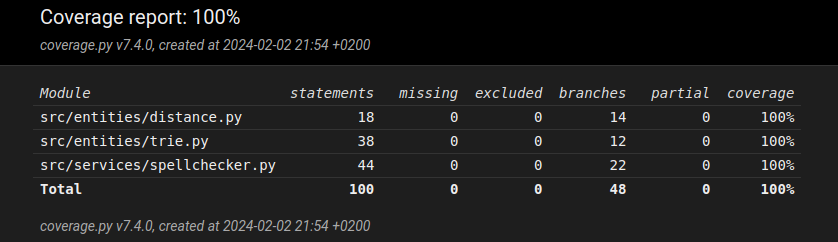
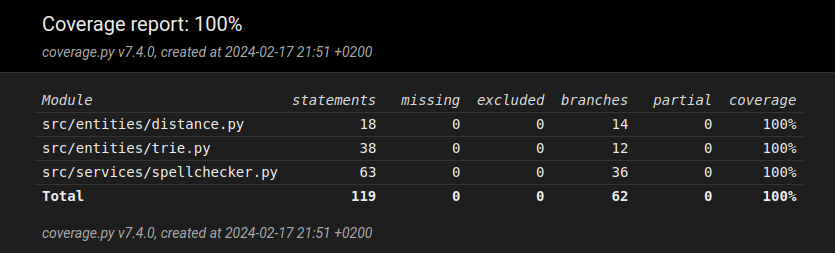
update spellchecker

diff --git a/src/services/spellchecker.py b/src/services/spellchecker.py
@@ -1,5 +1,4 @@
 import re
-import time
 from entities.trie import Trie
 from entities.distance import Distance
 
@@ -25,10 +24,7 @@ class SpellChecker:
             clean_word = self.trie.cleaner(word)
             if len(clean_word) > 1 and ord("z") >= ord(clean_word[0]) >= ord("a"):
                 correct_words = self.get_correct_word(clean_word)
-                if correct_words is None:
-                    suggestions.append((False, word))
-                else:
-                    suggestions.append(correct_words)
+                suggestions.append(correct_words)
             else:
                 suggestions.append(word)
         return suggestions
@@ -39,77 +35,39 @@ class SpellChecker:
         result = ""
         for element in clean_paragraph:
             if isinstance(element, tuple):
-                if element[0] is False:
-                    result += f"{element[1]}(unknown word)"
-                else:
-                    result += f"--{element[0][0]}--"
+                result += f"--{element[0][0]}--"
             else:
                 result += element
         return result
-    # def print_words(self, prev_key=""):
-    #     for letter in self.children:
-    #         if letter is None:
-    #             continue
-    #         new_key = prev_key + letter.value
-    #         if letter.is_terminal:
-    #             print(f"{new_key}: {letter}")
-
-    #         # else:
-    #         #     print(f"{prev_letters}-{i}") #i.value
-    #         letter.print_words(new_key)
-
-    # def get_correct_word_orginal(self, word):
-    #     '''Palauttaa oikeaan kirjoitetun sanan tai ehdotuksen.'''
-    #     if self.trie.search(word):
-    #         return word
-    #     return self._get_suggestion(self.trie.node, word)
 
     def get_correct_word(self, word):
         '''Palauttaa oikeaan kirjoitetun sanan tai ehdotuksen.'''
-        #alku = time.time()
         if self.trie_full.search(word):
-            # loppu = time.time()
-            # print(f"{loppu-alku}, löyty-{word}")
             return word
         # Lisää 1.kirjaimen ja katsoo löytyykö sanakirjasta oikeaa sanaa
         for i in range(ord("a"), ord("z")):
-            if self.trie_full.search(chr(i)+word):
-                # loppu = time.time()
-                # print(f"{loppu-alku}, lisää alku-{word}")
-                return ([chr(i)+word], 0.5)
+            proposed_word = chr(i)+word
+            if self.trie_full.search(proposed_word):
+                return ([proposed_word], 0.5)
         # Lisää viimeisen kirjaimen
-        for i in range(ord("a"), ord("z")):
-            if self.trie_full.search(word+chr(i)):
-                # loppu = time.time()
-                # print(f"{loppu-alku}, lisää loppu-{word}")
-                return ([word+chr(i)], 0.5)
+            proposed_word = word+chr(i)
+            if self.trie_full.search(proposed_word):
+                return ([proposed_word], 0.5)
         # Ottaa pois 1.kirjaimen
         if self.trie_full.search(word[1:]):
-            # loppu = time.time()
-            # print(f"{loppu-alku}, eka kirjain-{word}")
             return ([word[1:]], 0.5)
         # Ottaa pois viimeisen kirjaimen
         if self.trie_full.search(word[:-1]):
-            # loppu = time.time()
-            # print(f"{loppu-alku}, vika kirjain-{word}")
             return ([word[:-1]], 0.5)
-        # start = word[0]
-        # end = word[1:]
         result = self._get_suggestion(self.trie.node, word)
-        if result[1] == 1:
-            # loppu = time.time()
-            # print(f"{loppu-alku}, pieni-{word}")
-            return result
-        result = self._get_suggestion(self.trie_full.node, word)
-        # loppu = time.time()
-        # print(f"{loppu-alku}, loppu-{word}")
+        # Jos distance ei ole 1 eli hyvä, niin jatketaan etsimistä isosta sanakirjasta
+        if result[1] != 1:
+            result = self._get_suggestion(self.trie_full.node, word)
         return result
 
     def _get_suggestion(self, node, word, min_distance=100,  prev_key=None, found_word=None):
         '''Palauttaa väärinkirjoitetulle sanalle ehdotuksen ja käy läpi trie puurakennetta 
         ja käyttää etäisyys algoritmiä.'''
-        # if node is None:
-        #     return None
         for letter in node.children:
             if letter is None:
                 continue
@@ -133,11 +91,3 @@ class SpellChecker:
             (found_word, min_distance) = self._get_suggestion(
                 letter, word, min_distance, new_key, found_word)
         return (found_word, min_distance)
-
-    # def helper(self, word):
-    #     alku = ""
-    #     for i in range(len(word)):
-    #         print(f"{alku+word [i]}-{self.get_correct_word(alku+word[i])}")
-    #         alku +=  word[i]
-
-    #     return True

diff --git a/src/tests/trie_test.py b/src/tests/trie_test.py
@@ -6,36 +6,40 @@ class Testtrie(unittest.TestCase):
     def test_insert_words_into_trie(self):
         trie = Trie()
         trie.insert("apartment")
-        print(trie)
         word = trie.search("apartment")
-        self.assertEqual(word, True)
+        self.assertEqual(word, True)  # sana löytyi
 
         trie.insert("apple")
         word = trie.search("apple")
-        self.assertEqual(word, True)
+        self.assertEqual(word, True)  # eri sana löytyi
 
         trie.insert("")
         word = trie.search("apartmen")
-        self.assertEqual(word, False)
+        self.assertEqual(word, False)  # väärin kirjoitettu sana ei löytynyt
 
-        trie.insert("BIG")
+        trie.insert("BIG")  # pystyy lisää isoilla kirjaimilla olevan sanan
         word = trie.search("big")
-        self.assertEqual(word, True)
+        self.assertEqual(word, True)  # sana on löytyy
 
         word = trie.search("apartmente")
-        self.assertEqual(word, False)
+        self.assertEqual(word, False)  # väärin kirjoitettu sana ei löytynyt
 
+        # isoilla kirjaimilla kirjoitettu sana on löytynyt
         word = trie.search("APARTment")
         self.assertEqual(word, True)
 
-    def test_save_dictonary_to_trie(self):
+        word = trie.search("!")
+        self.assertEqual(word, True)  # ei ole kirjoitusvirhettä merkillä
+
+    def test_save_dictonary_file_to_trie(self):
         trie = Trie()
         trie.save_dictonary_to_trie("src/data/test_wordslist.txt")
-        found = trie.search("apartment")
+        found = trie.search("apartment")  # löytyi sanakirjasta
         self.assertEqual(found, True)
 
+        # löytyy sanakirjasta, vaikka on kirjoitettu osan isolla kirjailla
         found = trie.search("APart")
         self.assertEqual(found, True)
 
-        found = trie.search("ap")
+        found = trie.search("ap")  # ei löytynyt sanaa
         self.assertEqual(found, False)

diff --git a/src/index.py b/src/index.py
@@ -1,30 +1,12 @@
-import time
 from services.spellchecker import SpellChecker
 
 
 def main():
-    #alku = time.time()
     spell_checker = SpellChecker(
         "src/data/3000_words.txt", "src/data/words_alpha.txt")
-    # loppu = time.time()
-    # print(loppu-alku)
-    # print(spell_checker.get_correct_word("apend"))
-    user_input = input("Enter a text paragraph: ")#"apartment...2 apar jjj!banana dont bage\n!"
-    # print("alku----")
-#     user_input = '''Hello,
-# My name is Susan. I'm forteen and I life in Germany. My hobbys are go to discos,
-#    sometimes I hear music in the radio.
-# In the summer I go bathing in a lake. I haven't any brothers or sisters. We take busses to scool.
-# I visit year 9 at my school. My birthday is on Friday. I hope I will become a new guitar.
-# I'm looking forward to get a e-mail from you.
-
-# Yours,
-#
-    #user_input = "apartment...2 apar jjj!banana dont\n!"
+    user_input = input("Enter a text paragraph: ")
     clean_text = spell_checker.fix_text(user_input)
     print(clean_text)
-    # print(spell_checker.helper("hepetihop"))
-    # 'abend', 'agend', 'amend', 'anend', 'aped', 'append', 'arend', 'pend', 'spend', 'upend'
 
 
 if __name__ == "__main__":

diff --git a/src/tests/spellchecker_test.py b/src/tests/spellchecker_test.py
@@ -44,4 +44,4 @@ class TestSpellchecker(unittest.TestCase):
         text = spellchecker.fix_text(
             "hello, what, where are you?")
         self.assertEqual(
-            text, "hello, what, where --care-- you?")  # sanakirjassa ei ole are sanaa
+            text, "hello, what, where --area-- you?")  # sanakirjassa ei ole are sanaa

diff --git a/documents/toteutusdokumentti.md b/documents/toteutusdokumentti.md
@@ -1,4 +1,5 @@
 # Toteutusdokumetti
+Ohjelma ottaa vastaan teksipätkän ja tarkistaa sanojen oikean englannin kirjotuksen. Sanat ovat kirjoitettu a-z kirjamilla (voi olla isoja kirjaimia, mutta palauttaa vain pieniä kirjaimia), muita merkkejä ja numeroita ei tarkisteta vaan ne hyväksytään sellaisenaan. Käyttäjä voi halutessa vaihtaa oman sanaston vaihtomalla file_path. 
 
 ## Ohjelman rakenne
 Ohjelma koostuu [distance](/src/entities/distance.py) algoritmi luokasta (vertaa kahta sanaa ja kertoo niiden eron etäisyytenä), [trie](/src/entities/trie.py) puimaisesta tietorakenne luokasta (säilyttää sanakirjan) ja luokasta [spellchecker](/src/services/spellchecker.py) (etsii väärinkirjoitetulle sanalle läheisimään ehdotuksen), joka käyttää näitä funktioita distance ja trie luokasta. Käyttäjä pääsee indexin avulla spellchecker luokkaan käyttämään tarvittavia funktiota, jotka korjaa tekstin sanakirjoitusvirheet. 
@@ -11,10 +12,10 @@ Algorimin aikavaativuus pitäisi pahminmassa tapauksessa olla O(mn), missä m on
 Ohjelmassa, jos löytyy sana, niin nopeus on n*10^⁻6 s, missä n on keskimäärin 5 eli siihen vaikuttaa sanan pituus ja sanalistan pituus.
 
 ## Puutteet ja parannusehdot
-Puutteena on, että ohjelma on jossain tapauksissa hidas ja ohjelma ei palauta parasta vaihtoehtoa vääriinkirjoitetulle sanalle käyttäjän kannalta vaan palauttaa sanan mikä on lähin etäisyys, koska käytetään distance algoritmia. Esim. sanalle voi löytyä monta vaihtoehtoa ja parannusehtona olisi, että käyttäjä saisi kaikki vaihtoedot ja voisi itse valita sopivan sanan. Tai ohjelmassa voisi lisätä sellaisen arpomisfunktio eli osaisi arvata, minkä oikean sanan käyttäjä haluisi.
+Puutteena on, että ohjelma on jossain tapauksissa hidas ja ohjelma ei palauta parasta vaihtoehtoa vääriinkirjoitetulle sanalle käyttäjän kannalta vaan palauttaa sanan mikä on lähin etäisyys, koska käytetään distance algoritmia. Esim. sanalle voi löytyä monta vaihtoehtoa ja parannusehtona olisi, että käyttäjä saisi kaikki vaihtoedot ja voisi itse valita sopivan sanan. Tai ohjelmassa voisi lisätä sellaisen arpomisfunktio eli osaisi arvata, minkä oikean sanan käyttäjä haluisi. Parannusehtona olisi, että ohjelma voisi muistaa käyttäjän tekemät yleiset virheet ja siitä syntyisi oma sanakirja.
 Toisena parannusehtona olisi, että sanat olisivat samalla tyylillä, mitten käyttäjä on lisännyt sinne, tällä hetkellä ohjelma muuttaa kaikki sanat pieneksi kirjaimiseksi.
 Trien luominen kestää tässä ohjelmassa, koska sanasto on iso, mutta sitä voisi ehkä yrittää optimoida. Algotimiä voisi optimoida siten, että käyttäsi jotain map-työkalua ja laittaisi esim. lähellä olevat kirjaimet näppäimistössä tallenteen ja käyttäsi sitä hyödyksi. 
-Voisi käyttää jotain toista algoritmia apuna ohjelman nopeuttamiselle.
+Voisi käyttää jotain toista algoritmia apuna ohjelman nopeuttamiselle. Ohjelma voisi toimi myös muilla kielillä, mutta ohjelman toimintoja pitäisi muuttaa. Esim. suomenkielellä on haastavampi tehdä taivutusten takia.
 
 ## Lähteet
 Trie tietorakenteen lähde: https://en.wikipedia.org/wiki/Trie

diff --git a/documents/viikkoraportit/raportti5.md b/documents/viikkoraportit/raportti5.md
@@ -1,9 +1,9 @@
-Tällä viikolla aloin optimoimaan ohjelmaa. Lisäsin uuden sanakirjan käyttöön, missä on 3000 yleistä englannin sanaa. Tällä tavalla se vähän nopeuttaa ohjelmaa siten, että jos ei löydä sanaa sanakirjasta, niin tekee haun ekana siitä yleisen sanojen sanakirjasta ja sitten vasta siitä isosta sanakirjasta. Tehty myös eri tarkistus nopeuttavia juttuja, esim katsoo, jos lisää kirjaimen alkuun tai loppuun niin löytyykö sanaa ja jos ottaa alku tai loppu kirjaimet pois, niin löytyykö siten sanaa. Opin miettimään, että millä tavoilla voisin optimoida ohjelmaa. En ehdi toteuttamaan kaikkia optimointi ideoita, mutta ajattelin totetuttaa sen verran miten ehdin ja priotisoida sen mukaan, että mikä niistä olisi järkevin ohjelman kannalta. Seuraavaksi ajatteli juuri toetuttaa lisää optimointia ja ehkä korjata pieni bugi ja lisätä ehkä järkeviä testejä. Ui:ssa lisätty -- korjatun sanan ympärille, että on helpompi tunnistaa, mutta myöhemmin vois lisätä värin.
+Tällä viikolla aloin optimoimaan ohjelmaa. Lisäsin uuden sanakirjan käyttöön, missä on 3000 yleistä englannin sanaa. Tällä tavalla se vähän nopeuttaa ohjelmaa siten, että jos ei löydä sanaa sanakirjasta, niin tekee haun ekana siitä yleisen sanojen sanakirjasta ja sitten vasta siitä isosta sanakirjasta. Tehty myös eri tarkistus nopeuttavia juttuja, esim katsoo, jos lisää kirjaimen alkuun tai loppuun niin löytyykö sanaa ja jos ottaa alku tai loppu kirjaimet pois, niin löytyykö siten sanaa. Opin miettimään, että millä tavoilla voisin optimoida ohjelmaa. En ehdi toteuttamaan kaikkia optimointi ideoita, mutta ajattelin totetuttaa sen verran miten ehdin ja priotisoida sen mukaan, että mikä niistä olisi järkevin ohjelman kannalta. Seuraavaksi ajatteli juuri toetuttaa lisää optimointia ja ehkä korjata pieni bugi ja lisätä ehkä järkeviä testejä. Ui:ssa lisätty -- korjatun sanan ympärille, että on helpompi tunnistaa, mutta myöhemmin vois lisätä värin. Yritän etsiä paremman sanankirjan, jossa on yleisempiä sanoja.
 
 Päiväys       | aika | mitä tein |
 -----------|------|--------|
 2024-11-02 | 4h | Tehty ensimmäinen versio optimoidusta hakutavasta ja antaa tuloksia vähän eri tavalla. Korjattu testit sen mukaan. |
 2024-16-02 | 5h | Aloitettu muokkaan optimointitapaa. Jatkettu toteutusdokumenttia. Löytyi bugi ohjelmasta, että ei käy sanoja läpi, jos alkaa isolla kirjaimilla. Korjattu bugi huonosti, koska palauttaa sanan pienenä kirjaimina.|
-2024-17-02 | 3h | Korjattu testejä. Tehty toteutusdokumentti ja testausdokumentti. |
-yht | 12h |
+2024-17-02 | 5h | Korjattu testejä ja pylinttia ja tehty opitimoin puutuvan kirjaimen looppia (get correct word funktio). Tehty toteutusdokumentti ja testausdokumentti. |
+yht | 14h |
 

diff --git a/documents/testausdokumentti.md b/documents/testausdokumentti.md
@@ -6,10 +6,12 @@ Testit on jaettu kolmeen osaan:
 - [distance_test](../src/tests/distance_test.py)
 - [trie_test](../src/tests/trie_test.py)
 - [spellchecker_test](../src/tests/spellchecker_test.py)
-Nämä testit kattavat kaikki ohjelman toiminallisuuden tuottavat funktiot.
+Jaettu näin, koska sitten omille luokille on omat testit, joka selkentää asiaa. Testeihin on kirjoitettu komentilla, että mitä eri testit merkitsevät ja miksi testataan niillä syötteillä.
+Nämä testit kattavat kaikki ohjelman toiminallisuuden tuottavat funktiot. Testihin laitettu onnistuneet tapaukset(sana löyty) ja epäonnistuneet tapukset(sana ei löydy) ja rajatapauksia(eri sanapituuksille eri testit).
 
 ## Manuaaliset testit
 Ohjelman teon aikana on tehty erilaisia manuaalisia testejä. Aluksi testattu vaan yhdellä kirjaimilla ja siiten lisätty sanan pituutta ja sitten väärää sanaa. Tämä auttoi tekemään funktiot, jotka antoivat ehdotuksia väärälle sanalle. Hyvät manualiset testit on sitten lisätty unitestihin. Esim sana "apend" tuotti listan eri tuloksista (oikeista sanoista). Lopuksi testattu teksi kappaletta, jossa on kirjoitusvirheitä, jonka avulla sitten tehtiin fix text funktio ja hyvä testisyöte laitetttiin unitesteihin.
+On testattu algorimin ja ohjelman nopeutta sekä optimointia testattiin python time funktion avulla. Isoa sanakirjaa on vaan testattu manuaalisesti. Unittesteissä käytetään omaa pienempää sanakirjaa.
 
 ### Testikattavuus
-![Coverage_report](coverage_report.png)
+![Coverage_report](coverage_report.png)!

diff --git a/README.md b/README.md
@@ -17,6 +17,7 @@ Kirjoitusvirheiden korjaajassa käytetään "Damerau-Levenshtein-etäisyys" algo
 - [viikko3](./documents/viikkoraportit/raportti3.md)
 - [viikko4](./documents/viikkoraportit/raportti4.md)
 - [viikko5](./documents/viikkoraportit/raportti5.md)
+- [viikko6](./documents/viikkoraportit/raportti6.md)
 
 ## Komennot
 Lataa poetry:
